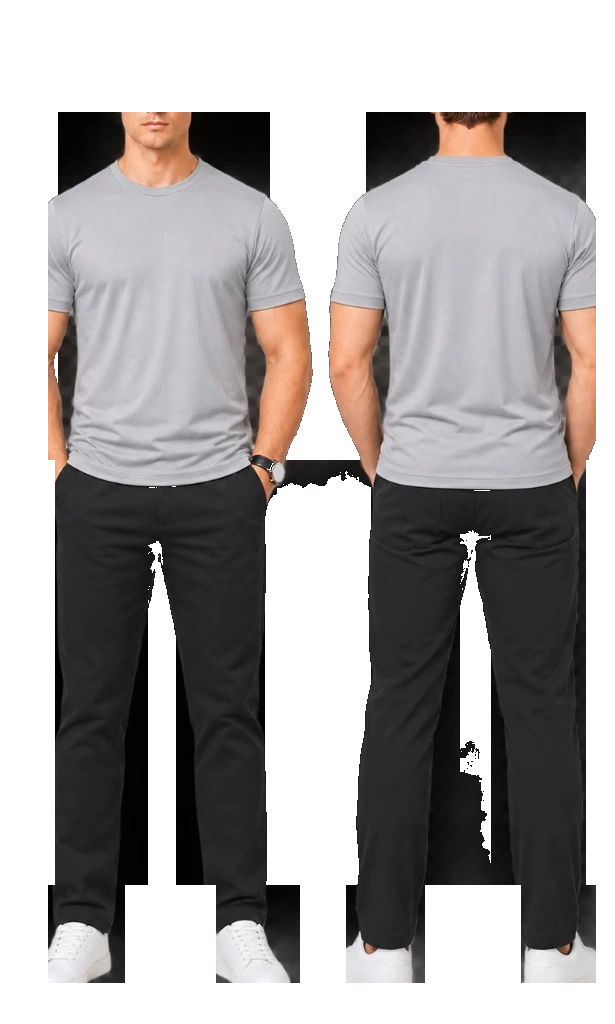
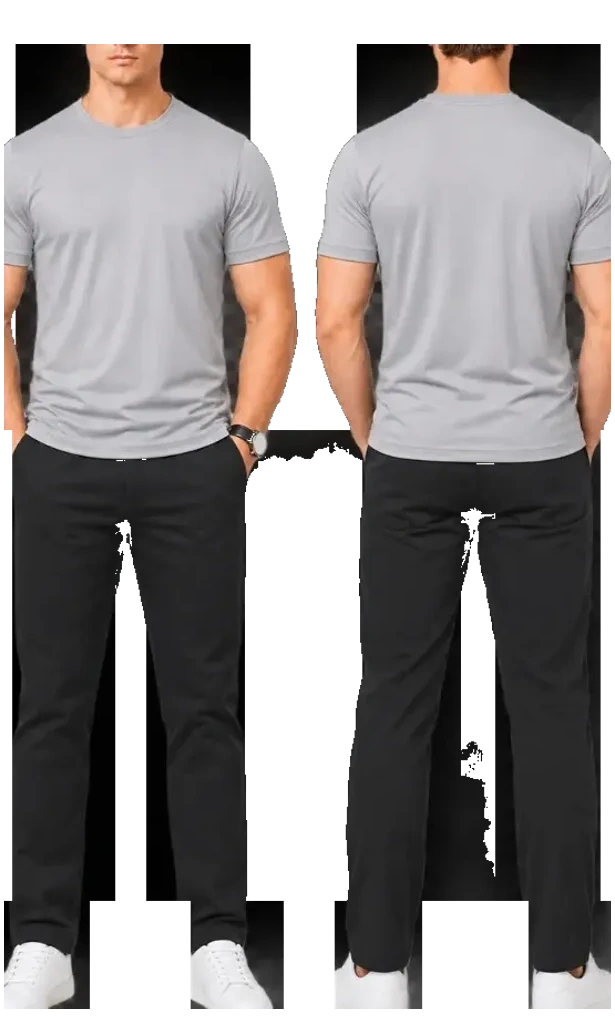
fix(showcase): implement strict decreasing sizes from right to left and smooth carousel rotation order

diff --git a/src/pages/Categories/components/ClientUniformShowcase.tsx b/src/pages/Categories/components/ClientUniformShowcase.tsx
@@ -1,4 +1,4 @@
-import React, { useState, useEffect, useRef } from 'react';
+import React, { useState, useEffect, useRef, useCallback } from 'react';
 import { ChevronLeft, ChevronRight } from 'lucide-react';
 
 export interface ShowcaseDetail {
@@ -584,22 +584,30 @@ export const ClientUniformShowcase: React.FC<ClientUniformShowcaseProps> = ({
   const totalSlides = slides.length;
   const currentSlide = slides[currentIndex];
 
-  // Calculate preceding models staggered on the left in decreasing scale
-  const leftIdx1 = (currentIndex - 1 + totalSlides) % totalSlides;
-  const leftIdx2 = (currentIndex - 2 + totalSlides) % totalSlides;
-  const leftIdx3 = (currentIndex - 3 + totalSlides) % totalSlides;
+  // 4 positions from left to right:
+  // Position 1 (Far Left / 4th from right, Smallest): (currentIndex + 3) % totalSlides
+  // Position 2 (Mid-left / 3rd from right, Medium-small): (currentIndex + 2) % totalSlides
+  // Position 3 (Mid-right / 2nd from right, Medium-large): (currentIndex + 1) % totalSlides
+  // Position 4 (Far Right / 1st from right, Largest/Active): currentIndex
+  // When Next is clicked:
+  // - Pos 3 (Right 2nd) moves to Pos 4 (Right 1st) and becomes the largest!
+  // - Pos 4 (Right 1st) wraps around to Pos 1 (Far Left) and takes the smallest size!
+  const pos1Idx = (currentIndex + 3) % totalSlides;
+  const pos2Idx = (currentIndex + 2) % totalSlides;
+  const pos3Idx = (currentIndex + 1) % totalSlides;
+  const pos4Idx = currentIndex;
 
-  const slideDuration = 4500; // 4.5 seconds per circular rotation
+  const slideDuration = 3800; // 3.8s smooth auto-scroll
 
-  const handleNext = () => {
+  const handleNext = useCallback(() => {
     setProgress(0);
     setCurrentIndex((prev) => (prev + 1) % totalSlides);
-  };
+  }, [totalSlides]);
 
-  const handlePrev = () => {
+  const handlePrev = useCallback(() => {
     setProgress(0);
     setCurrentIndex((prev) => (prev - 1 + totalSlides) % totalSlides);
-  };
+  }, [totalSlides]);
 
   // IntersectionObserver to auto-scroll when user scrolls into this section
   useEffect(() => {
@@ -607,7 +615,7 @@ export const ClientUniformShowcase: React.FC<ClientUniformShowcaseProps> = ({
       ([entry]) => {
         setIsInView(entry.isIntersecting);
       },
-      { threshold: 0.25 }
+      { threshold: 0.15 }
     );
 
     if (sectionRef.current) {
@@ -626,8 +634,8 @@ export const ClientUniformShowcase: React.FC<ClientUniformShowcaseProps> = ({
 
     const timer = setInterval(() => {
       setProgress((prev) => {
-        if (prev >= 100) {
-          handleNext();
+        if (prev + step >= 100) {
+          setCurrentIndex((curr) => (curr + 1) % totalSlides);
           return 0;
         }
         return prev + step;
@@ -635,7 +643,7 @@ export const ClientUniformShowcase: React.FC<ClientUniformShowcaseProps> = ({
     }, intervalTime);
 
     return () => clearInterval(timer);
-  }, [currentIndex, isInView, isPaused, totalSlides]);
+  }, [isInView, isPaused, totalSlides, slideDuration]);
 
   // Touch swipe handling for mobile
   const handleTouchStart = (e: React.TouchEvent) => {
@@ -753,9 +761,9 @@ export const ClientUniformShowcase: React.FC<ClientUniformShowcaseProps> = ({
               </p>
             </div>
 
-            {/* Showcase Stage: Evenly Distributed Runway Spacing Following Reference Image 2 */}
+            {/* Showcase Stage: Evenly Distributed Runway Spacing with Strict Decreasing Sizes */}
             <div
-              className="relative my-auto flex items-end justify-center h-[380px] xl:h-[430px] w-full pb-1 select-none"
+              className="relative my-auto flex items-end justify-center h-[420px] xl:h-[470px] w-full pb-1 select-none"
             >
               {/* Backward Navigation Button */}
               <button
@@ -766,87 +774,87 @@ export const ClientUniformShowcase: React.FC<ClientUniformShowcaseProps> = ({
                 <ChevronLeft className="w-8 h-8 stroke-[2.2]" />
               </button>
 
-              {/* Models Runway Row: Evenly Distributed with Strict Height-Wise Progression (Image 1 Tallest, Grounded on Floor) */}
+              {/* Models Runway Row: Strict Decreasing Order of Size & Height from Right to Left */}
               <div
                 className={`w-full h-full flex items-end ${
-                  totalSlides > 2 ? 'justify-between' : 'justify-end gap-12 xl:gap-20'
-                } px-2 xl:px-4`}
+                  totalSlides > 2 ? 'justify-between' : 'justify-end gap-16 xl:gap-24'
+                } px-3 xl:px-6`}
               >
-                {/* Shaded Model 3 (Smallest, furthest left, grounded on floor) */}
+                {/* Position 1: Leftmost / 4th from right (SMALLEST in height and width) */}
                 {totalSlides > 3 && (
                   <div
                     onClick={() => {
                       setProgress(0);
-                      setCurrentIndex(leftIdx3);
+                      setCurrentIndex(pos1Idx);
                     }}
-                    className="flex flex-col items-center justify-end mb-0 cursor-pointer transition-all duration-500 hover:scale-[1.04] group shrink-0"
+                    className="flex flex-col items-center justify-end w-[15%] xl:w-[16%] max-w-[170px] xl:max-w-[195px] mb-8 xl:mb-10 cursor-pointer transition-all duration-700 hover:scale-[1.05] group shrink-0"
                     style={{
                       opacity: 0.35,
-                      filter: 'drop-shadow(0 4px 10px rgba(0,0,0,0.06)) blur(0.5px) grayscale(15%)',
+                      filter: 'drop-shadow(0 4px 8px rgba(0,0,0,0.06)) blur(0.5px) grayscale(15%)',
                     }}
-                    title={`Switch to ${slides[leftIdx3].brand}`}
+                    title={`Switch to ${slides[pos1Idx].brand}`}
                   >
                     <img
-                      src={slides[leftIdx3].modelImage}
-                      alt={slides[leftIdx3].brand}
-                      className="h-[210px] xl:h-[240px] w-auto max-w-full object-contain select-none transition-opacity duration-300 group-hover:opacity-100"
+                      src={slides[pos1Idx].modelImage}
+                      alt={slides[pos1Idx].brand}
+                      className="w-full h-auto max-h-[220px] xl:max-h-[250px] object-contain select-none transition-opacity duration-300 group-hover:opacity-100"
                     />
                   </div>
                 )}
 
-                {/* Shaded Model 2 (Mid-left, taller than model 3, grounded on floor) */}
+                {/* Position 2: Mid-left / 3rd from right (Visibly smaller than Position 3) */}
                 {totalSlides > 2 && (
                   <div
                     onClick={() => {
                       setProgress(0);
-                      setCurrentIndex(leftIdx2);
+                      setCurrentIndex(pos2Idx);
                     }}
-                    className="flex flex-col items-center justify-end mb-0 cursor-pointer transition-all duration-500 hover:scale-[1.04] group shrink-0"
+                    className="flex flex-col items-center justify-end w-[20%] xl:w-[21%] max-w-[220px] xl:max-w-[250px] mb-5 xl:mb-7 cursor-pointer transition-all duration-700 hover:scale-[1.05] group shrink-0"
                     style={{
                       opacity: 0.55,
-                      filter: 'drop-shadow(0 6px 14px rgba(0,0,0,0.09)) blur(0.25px) grayscale(8%)',
+                      filter: 'drop-shadow(0 6px 12px rgba(0,0,0,0.08)) blur(0.2px) grayscale(8%)',
                     }}
-                    title={`Switch to ${slides[leftIdx2].brand}`}
+                    title={`Switch to ${slides[pos2Idx].brand}`}
                   >
                     <img
-                      src={slides[leftIdx2].modelImage}
-                      alt={slides[leftIdx2].brand}
-                      className="h-[275px] xl:h-[310px] w-auto max-w-full object-contain select-none transition-opacity duration-300 group-hover:opacity-100"
+                      src={slides[pos2Idx].modelImage}
+                      alt={slides[pos2Idx].brand}
+                      className="w-full h-auto max-h-[285px] xl:max-h-[320px] object-contain select-none transition-opacity duration-300 group-hover:opacity-100"
                     />
                   </div>
                 )}
 
-                {/* Shaded Model 1 (Immediately left of main model, taller than model 2, grounded on floor) */}
+                {/* Position 3: Mid-right / 2nd from right (Visibly smaller than Position 4, but bigger than Position 2) */}
                 {totalSlides > 1 && (
                   <div
                     onClick={() => {
                       setProgress(0);
-                      setCurrentIndex(leftIdx1);
+                      setCurrentIndex(pos3Idx);
                     }}
-                    className="flex flex-col items-center justify-end mb-0 cursor-pointer transition-all duration-500 hover:scale-[1.04] group shrink-0"
+                    className="flex flex-col items-center justify-end w-[25%] xl:w-[26%] max-w-[280px] xl:max-w-[315px] mb-2 xl:mb-3 cursor-pointer transition-all duration-700 hover:scale-[1.05] group shrink-0"
                     style={{
-                      opacity: 0.75,
-                      filter: 'drop-shadow(0 10px 20px rgba(0,0,0,0.12))',
+                      opacity: 0.78,
+                      filter: 'drop-shadow(0 10px 18px rgba(0,0,0,0.12))',
                     }}
-                    title={`Switch to ${slides[leftIdx1].brand}`}
+                    title={`Switch to ${slides[pos3Idx].brand}`}
                   >
                     <img
-                      src={slides[leftIdx1].modelImage}
-                      alt={slides[leftIdx1].brand}
-                      className="h-[340px] xl:h-[380px] w-auto max-w-full object-contain select-none transition-opacity duration-300 group-hover:opacity-100"
+                      src={slides[pos3Idx].modelImage}
+                      alt={slides[pos3Idx].brand}
+                      className="w-full h-auto max-h-[355px] xl:max-h-[395px] object-contain select-none transition-opacity duration-300 group-hover:opacity-100"
                     />
                   </div>
                 )}
 
-                {/* MAIN ACTIVE MODEL (Foreground right, TALLEST & BIGGEST of all, crisp, grounded on floor) */}
+                {/* Position 4: Right 1st / Active (BIGGEST in height and width) */}
                 <div
-                  className="flex flex-col items-center justify-end mb-0 transition-all duration-700 ease-out z-30 shrink-0"
+                  className="flex flex-col items-center justify-end w-[31%] xl:w-[32%] max-w-[340px] xl:max-w-[385px] mb-0 transition-all duration-700 ease-out z-30 shrink-0"
                 >
                   <img
                     key={currentSlide.id}
-                    src={currentSlide.modelImage}
-                    alt={`${currentSlide.brand} showcase`}
-                    className="h-[420px] xl:h-[470px] w-auto max-w-full object-contain drop-shadow-[0_16px_30px_rgba(0,0,0,0.18)] select-none"
+                    src={slides[pos4Idx].modelImage}
+                    alt={`${slides[pos4Idx].brand} showcase`}
+                    className="w-full h-auto max-h-[425px] xl:max-h-[475px] object-contain drop-shadow-[0_16px_30px_rgba(0,0,0,0.18)] select-none"
                   />
                 </div>
               </div>
@@ -940,59 +948,59 @@ export const ClientUniformShowcase: React.FC<ClientUniformShowcaseProps> = ({
 
             {/* Mobile Runway Models Container with Even Spacing and Perspective Axis */}
             <div className="w-full max-w-sm sm:max-w-md mx-auto flex items-end justify-center gap-3 xs:gap-4 sm:gap-6 px-6">
-              {/* Left Shaded Model 2 (tablet / wider screens sm:) */}
+              {/* Position 2 (tablet / wider screens sm:) */}
               {totalSlides > 2 && (
                 <div
                   onClick={() => {
                     setProgress(0);
-                    setCurrentIndex(leftIdx2);
+                    setCurrentIndex(pos2Idx);
                   }}
-                  className="hidden sm:flex flex-col items-center justify-end mb-0 cursor-pointer transition-all duration-500 hover:scale-[1.04] shrink-0"
+                  className="hidden sm:flex flex-col items-center justify-end w-[24%] max-w-[120px] mb-4 cursor-pointer transition-all duration-500 hover:scale-[1.04]"
                   style={{
                     opacity: 0.35,
                     filter: 'drop-shadow(0 4px 10px rgba(0,0,0,0.08)) blur(0.4px)',
                   }}
-                  title={`Switch to ${slides[leftIdx2].brand}`}
+                  title={`Switch to ${slides[pos2Idx].brand}`}
                 >
                   <img
-                    src={slides[leftIdx2].modelImage}
-                    alt={slides[leftIdx2].brand}
-                    className="h-[185px] w-auto max-w-full object-contain select-none"
+                    src={slides[pos2Idx].modelImage}
+                    alt={slides[pos2Idx].brand}
+                    className="w-full h-auto max-h-[200px] object-contain select-none"
                   />
                 </div>
               )}
 
-              {/* Left Shaded Model 1 */}
+              {/* Position 3 (Mobile 2nd from right, smaller than main model) */}
               {totalSlides > 1 && (
                 <div
                   onClick={() => {
                     setProgress(0);
-                    setCurrentIndex(leftIdx1);
+                    setCurrentIndex(pos3Idx);
                   }}
-                  className="flex flex-col items-center justify-end mb-0 cursor-pointer transition-all duration-500 hover:scale-[1.04] shrink-0"
+                  className="flex flex-col items-center justify-end w-[40%] sm:w-[32%] max-w-[155px] mb-2 cursor-pointer transition-all duration-500 hover:scale-[1.04]"
                   style={{
                     opacity: 0.60,
                     filter: 'drop-shadow(0 6px 14px rgba(0,0,0,0.10))',
                   }}
-                  title={`Switch to ${slides[leftIdx1].brand}`}
+                  title={`Switch to ${slides[pos3Idx].brand}`}
                 >
                   <img
-                    src={slides[leftIdx1].modelImage}
-                    alt={slides[leftIdx1].brand}
-                    className="h-[240px] xs:h-[265px] w-auto max-w-full object-contain select-none"
+                    src={slides[pos3Idx].modelImage}
+                    alt={slides[pos3Idx].brand}
+                    className="w-full h-auto max-h-[245px] xs:max-h-[270px] object-contain select-none"
                   />
                 </div>
               )}
 
-              {/* Active Main Model (TALLEST and BIGGEST) */}
+              {/* Position 4: Active Main Model (Largest on mobile) */}
               <div
-                className="flex flex-col items-center justify-end mb-0 transition-all duration-500 shrink-0"
+                className="flex flex-col items-center justify-end w-[56%] sm:w-[44%] max-w-[215px] xs:max-w-[235px] mb-0 transition-all duration-500"
               >
                 <img
                   key={currentSlide.id}
-                  src={currentSlide.modelImage}
-                  alt={`${currentSlide.brand} showcase`}
-                  className="h-[295px] xs:h-[330px] w-auto max-w-full object-contain drop-shadow-[0_12px_22px_rgba(0,0,0,0.16)] transition-all duration-500 select-none"
+                  src={slides[pos4Idx].modelImage}
+                  alt={`${slides[pos4Idx].brand} showcase`}
+                  className="w-full h-auto max-h-[305px] xs:max-h-[335px] object-contain drop-shadow-[0_12px_22px_rgba(0,0,0,0.16)] transition-all duration-500 select-none"
                 />
               </div>
             </div>
